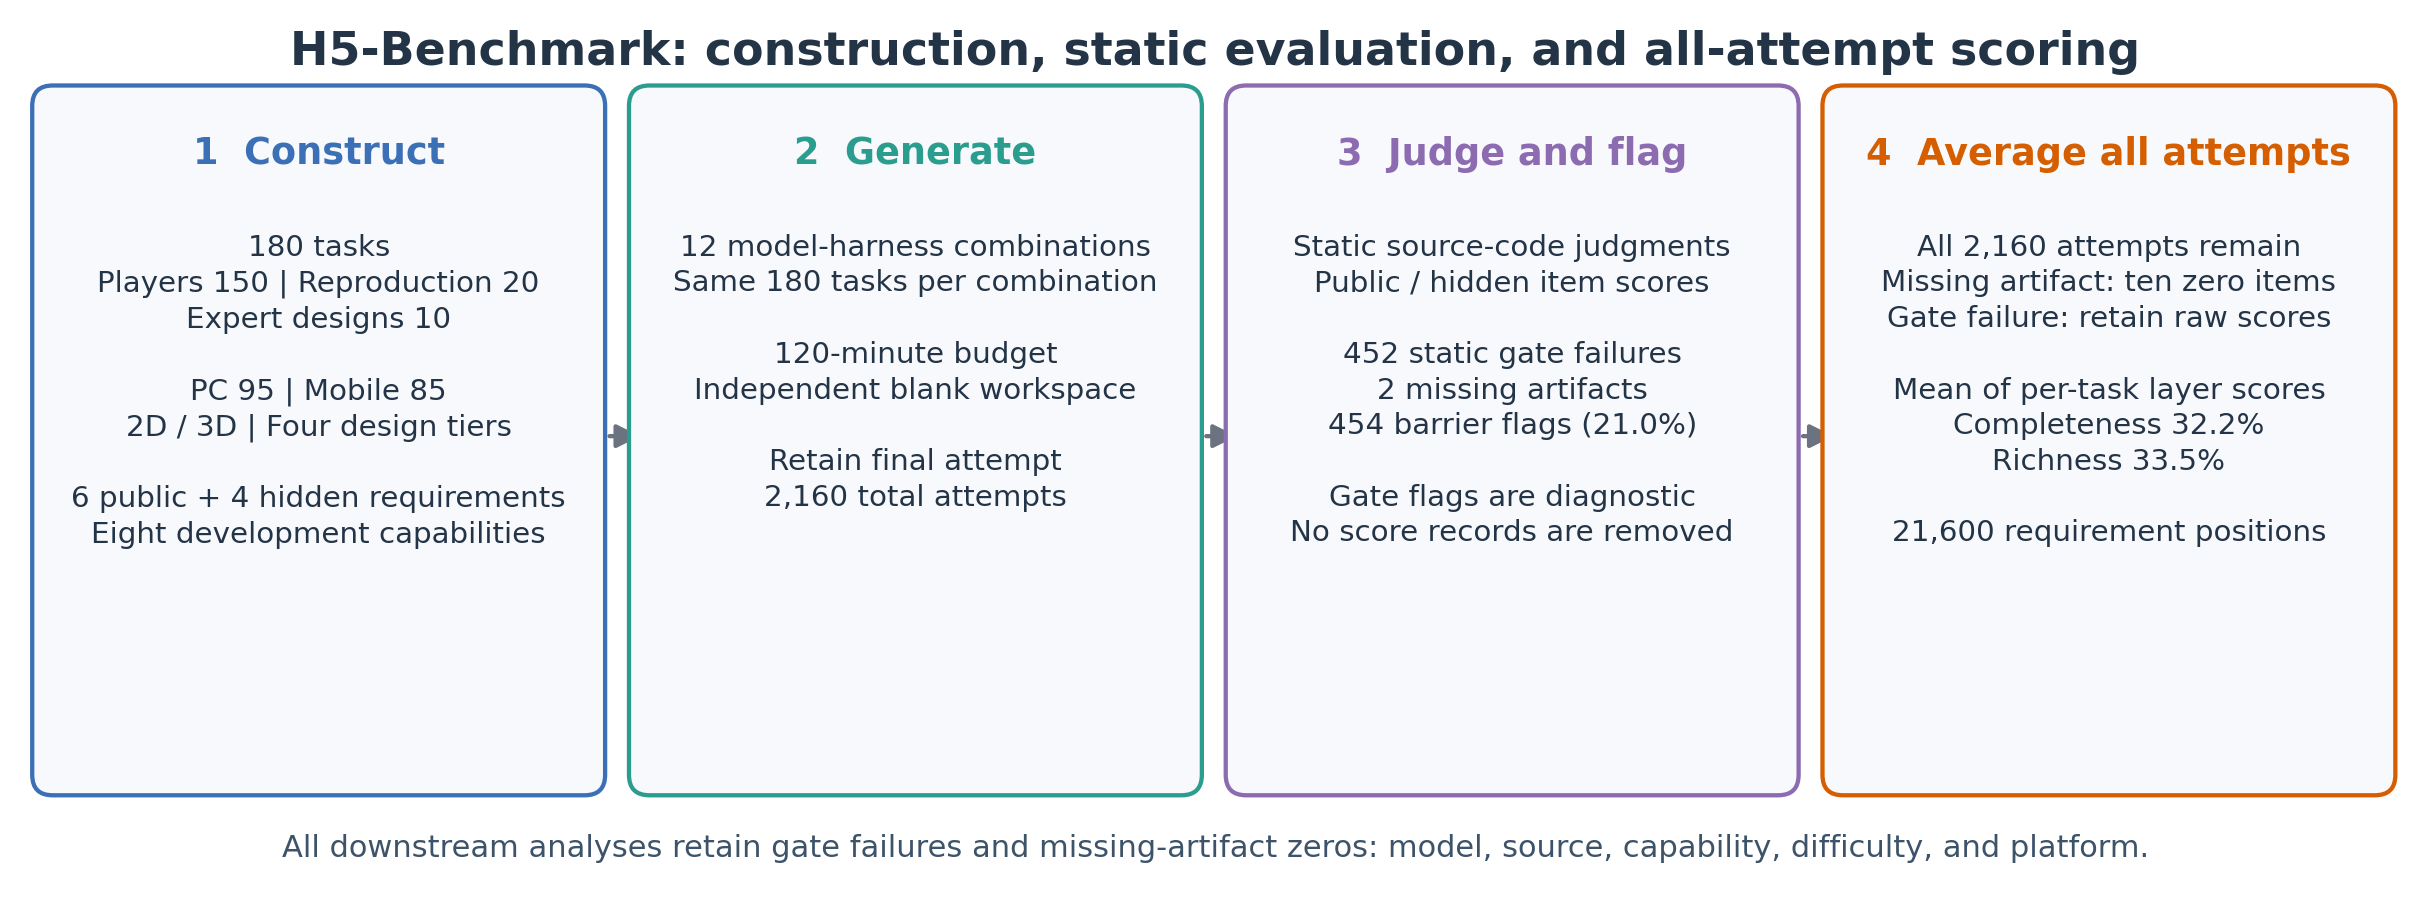
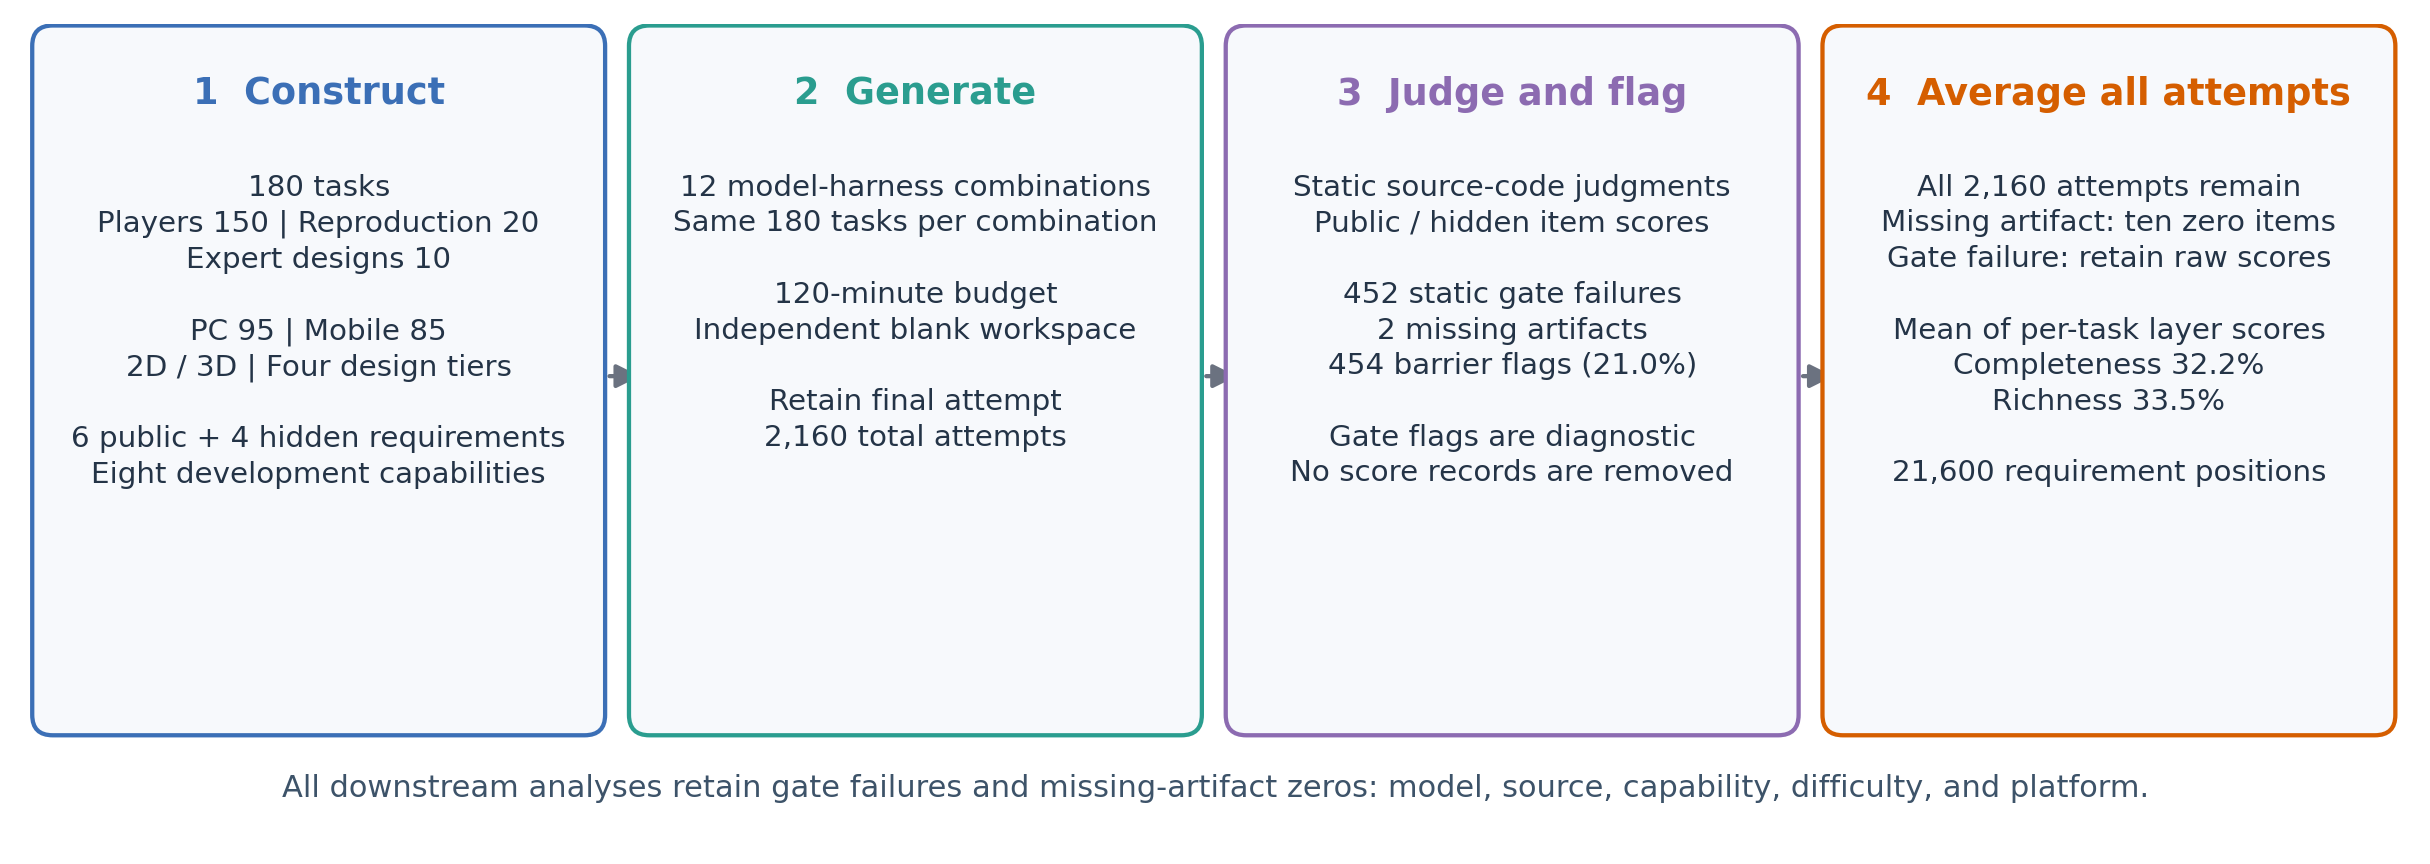
Rename benchmark to OCTAVE
OCTAVE: A Capability-Resolved Benchmark for Complete HTML5 Game Generation.

Claude-Session: https://claude.ai/code/session_01MC9cFEEC6wrYUEJ8GTbajX

diff --git a/index.html b/index.html
@@ -3,10 +3,10 @@
 <head>
   <meta charset="utf-8" />
   <meta name="viewport" content="width=device-width, initial-scale=1, viewport-fit=cover" />
-  <title>H5-Benchmark</title>
-  <meta name="description" content="H5-Benchmark: 180 complete HTML5 game tasks and 1,800 requirements that diagnose which game-development capabilities coding agents implement." />
-  <meta property="og:title" content="H5-Benchmark" />
-  <meta property="og:description" content="H5-Benchmark: 180 complete HTML5 game tasks and 1,800 requirements that diagnose which game-development capabilities coding agents implement." />
+  <title>OCTAVE</title>
+  <meta name="description" content="OCTAVE: 180 complete HTML5 game tasks and 1,800 requirements that diagnose which game-development capabilities coding agents implement." />
+  <meta property="og:title" content="OCTAVE: A Capability-Resolved Benchmark for Complete HTML5 Game Generation" />
+  <meta property="og:description" content="OCTAVE: 180 complete HTML5 game tasks and 1,800 requirements that diagnose which game-development capabilities coding agents implement." />
   <meta property="og:image" content="static/images/og-cover.jpg" />
   <meta name="twitter:card" content="summary_large_image" />
   <link rel="icon" href="static/images/favicon.svg" />
@@ -19,7 +19,7 @@
 
   <nav class="nav">
     <div class="wrap nav-inner">
-      <a class="brand" href="#top"><span class="brand-mark" aria-hidden="true"></span>H5-Benchmark</a>
+      <a class="brand" href="#top"><span class="brand-mark" aria-hidden="true"></span>OCTAVE</a>
       <div class="nav-links">
         <a href="#overview">Overview</a>
         <a href="#design">Design</a>
@@ -42,8 +42,8 @@
       <div class="hero-copy">
         <!-- TODO(素材): 会议/状态 -->
         <div class="eyebrow">Rezona · Preprint 2026</div>
-        <h1 class="hero-title">H5-<br>Benchmark</h1>
-        <p class="hero-subtitle">Which parts of a complete HTML5 game can coding agents actually build from one specification?</p>
+        <h1 class="hero-title">OCTAVE</h1>
+        <p class="hero-subtitle">A Capability-Resolved Benchmark for Complete HTML5 Game Generation</p>
 
         <!-- TODO(素材): 作者 + 单位 + 共一/通讯标记 -->
         <p class="authors">
@@ -98,13 +98,13 @@
             <h2>A single score can’t say which game-development capabilities an agent has. Requirement-level evidence can.</h2>
           </div>
           <div class="prose" id="abstract">
-            <p>Complete game generation requires agents to coordinate rules, interaction, state, and presentation throughout a long-horizon development process. A single game-level score cannot identify which development capabilities agents implement or where requirements remain unmet. We introduce H5-Benchmark, which organizes tasks by eight Capability Dimensions and diagnoses implementation through requirement-level evidence. Its 180 tasks and 1,800 Evaluation Requirements cover player requests, commercial mechanics, expert designs, PC Web, Mobile Web, 2D, and 3D. Public Completeness requirements and hidden Richness requirements distinguish explicit functionality from deeper system relationships.</p>
-            <p>Across all attempts from 12 model–harness combinations, retaining static-gate-failure judgments and assigning zero to missing artifacts, Completeness and Richness are 32.2% and 33.5%; 21.0% of attempts are flagged as gate failures or missing artifacts. Relative public/hidden performance varies across task sources, and capability orderings vary with task conditions. A limited human cross-check identifies human-satisfied but machine-failed requirements as the dominant disagreement. H5-Benchmark extends complete game generation evaluation to diagnostics grounded in requirements, capabilities, and task conditions.</p>
+            <p>Complete game generation requires agents to coordinate rules, interaction, state, and presentation throughout a long-horizon development process. A single game-level score cannot identify which development capabilities agents implement or where requirements remain unmet. We introduce OCTAVE, which organizes tasks by eight Capability Dimensions and diagnoses implementation through requirement-level evidence. Its 180 tasks and 1,800 Evaluation Requirements cover player requests, commercial mechanics, expert designs, PC Web, Mobile Web, 2D, and 3D. Public Completeness requirements and hidden Richness requirements distinguish explicit functionality from deeper system relationships.</p>
+            <p>Across all attempts from 12 model–harness combinations, retaining static-gate-failure judgments and assigning zero to missing artifacts, Completeness and Richness are 32.2% and 33.5%; 21.0% of attempts are flagged as gate failures or missing artifacts. Relative public/hidden performance varies across task sources, and capability orderings vary with task conditions. A limited human cross-check identifies human-satisfied but machine-failed requirements as the dominant disagreement. OCTAVE extends complete game generation evaluation to diagnostics grounded in requirements, capabilities, and task conditions.</p>
           </div>
         </div>
         <figure class="figure">
           <img data-ph="static/images/figures/teaser.jpg" src="static/images/figures/teaser.jpg" alt="A grid of nine games built by agents: real-time strategy, side-scrolling shooters, an isometric puzzle, a platformer, an ecosystem sandbox, a tower defense game and a bookshop sim" />
-          <figcaption><b>Figure 1.</b> HTML5 games built end to end by Fable 5.1 and GPT-6 Astra on H5-Benchmark tasks, spanning strategy, action, puzzle, sandbox and tabletop categories.</figcaption>
+          <figcaption><b>Figure 1.</b> HTML5 games built end to end by Fable 5.1 and GPT-6 Astra on OCTAVE tasks, spanning strategy, action, puzzle, sandbox and tabletop categories.</figcaption>
         </figure>
       </div>
     </section>
@@ -255,8 +255,8 @@
         <div class="bibtex">
           <div class="spec-head"><span>bibtex</span><button class="copy-btn" id="copyBib">Copy</button></div>
           <!-- TODO(素材): BibTeX -->
-<pre id="bibtex">@article{rezona2026h5bench,
-  title   = {H5-Benchmark: TODO Paper Title},
+<pre id="bibtex">@article{rezona2026octave,
+  title   = {OCTAVE: A Capability-Resolved Benchmark for Complete HTML5 Game Generation},
   author  = {Author, One and Author, Two and Author, Three},
   journal = {arXiv preprint arXiv:XXXX.XXXXX},
   year    = {2026}
@@ -268,7 +268,7 @@
 
   <footer class="footer">
     <div class="wrap footer-inner">
-      <span><span class="brand-mark" aria-hidden="true"></span>H5-Benchmark · Rezona 2026</span>
+      <span><span class="brand-mark" aria-hidden="true"></span>OCTAVE · Rezona 2026</span>
       <span class="muted">Complete HTML5 game generation, diagnosed by capability.</span>
     </div>
   </footer>

diff --git a/data/content.js b/data/content.js
@@ -25,7 +25,7 @@ BENCH.comparison = {
     ["GameCraft-Bench", "Real game engine", "140", false, "Partial", false, true],
     ["WebGameBench", "Browser games", "111", false, false, false, true],
     ["GameXpert-Bench", "Web games", "97", false, true, false, true],
-    { highlight: true, cells: ["H5-Benchmark (Ours)", "HTML5 / Web browser", "180", true, true, true, true] },
+    { highlight: true, cells: ["OCTAVE (Ours)", "HTML5 / Web browser", "180", true, true, true, true] },
   ],
 };
 

diff --git a/README.md b/README.md
@@ -1,4 +1,6 @@
-# H5-Benchmark Website
+# OCTAVE Website
+
+OCTAVE: A Capability-Resolved Benchmark for Complete HTML5 Game Generation.
 
 Pure static site (HTML/CSS/JS, no build step).
 
